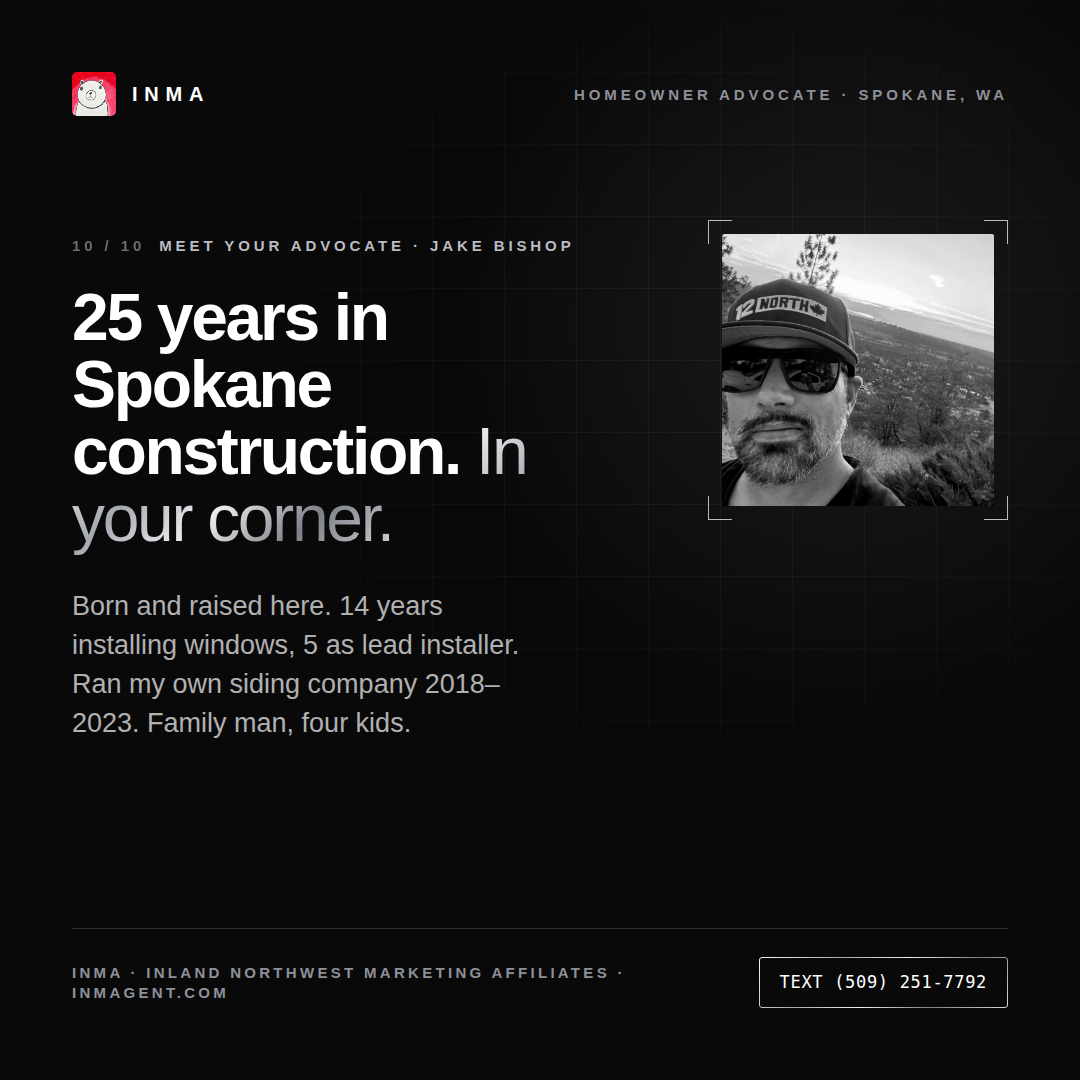
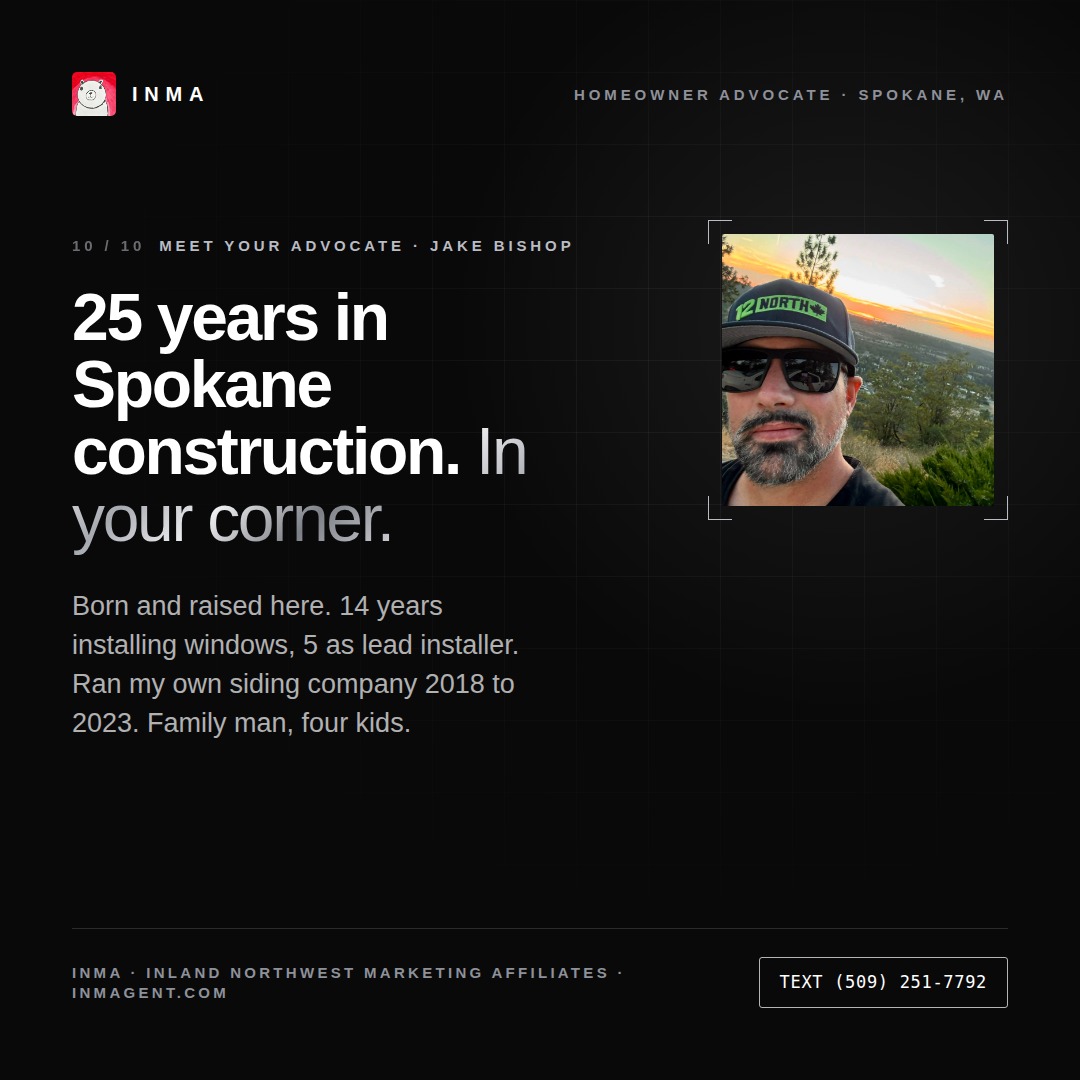
Jake's photo back in color on the About section and social card 10
Claude-Session: https://claude.ai/code/session_01HbxM6Hh2URUEiLeQWwdXsN

Changed region(s): [[0.6417, 0.2139, 0.9472, 0.4889], [0.4583, 0.6111, 0.4889, 0.6417]]

diff --git a/index.html b/index.html
@@ -611,7 +611,7 @@ button{font:inherit; color:inherit}
 /* ---- About ---- */
 .about{display:grid; grid-template-columns:minmax(220px,320px) 1fr; gap:var(--s-12); align-items:center}
 .about__frame{padding:12px}
-.about__photo{width:100%; aspect-ratio:1; object-fit:cover; border-radius:2px; filter:grayscale(1) contrast(1.06); background:var(--snow)}
+.about__photo{width:100%; aspect-ratio:1; object-fit:cover; border-radius:2px; background:var(--snow)}
 .about__text h2{margin-top:var(--s-3); font-size:var(--fs-2xl); line-height:1.08; color:var(--ink); letter-spacing:-.03em}
 .about__text p{margin-top:var(--s-4); color:var(--ink-2)}
 .about__text p strong{color:var(--ink)}
